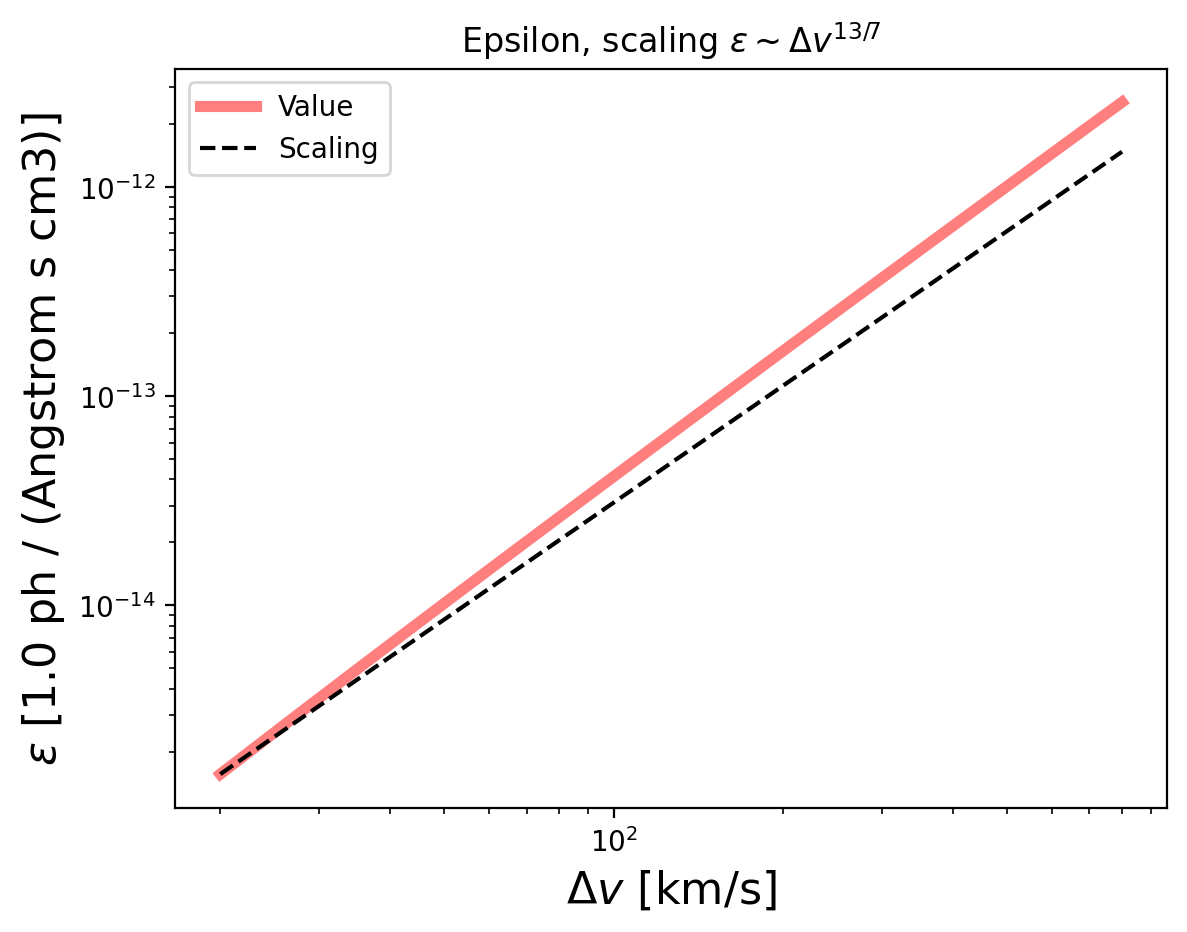
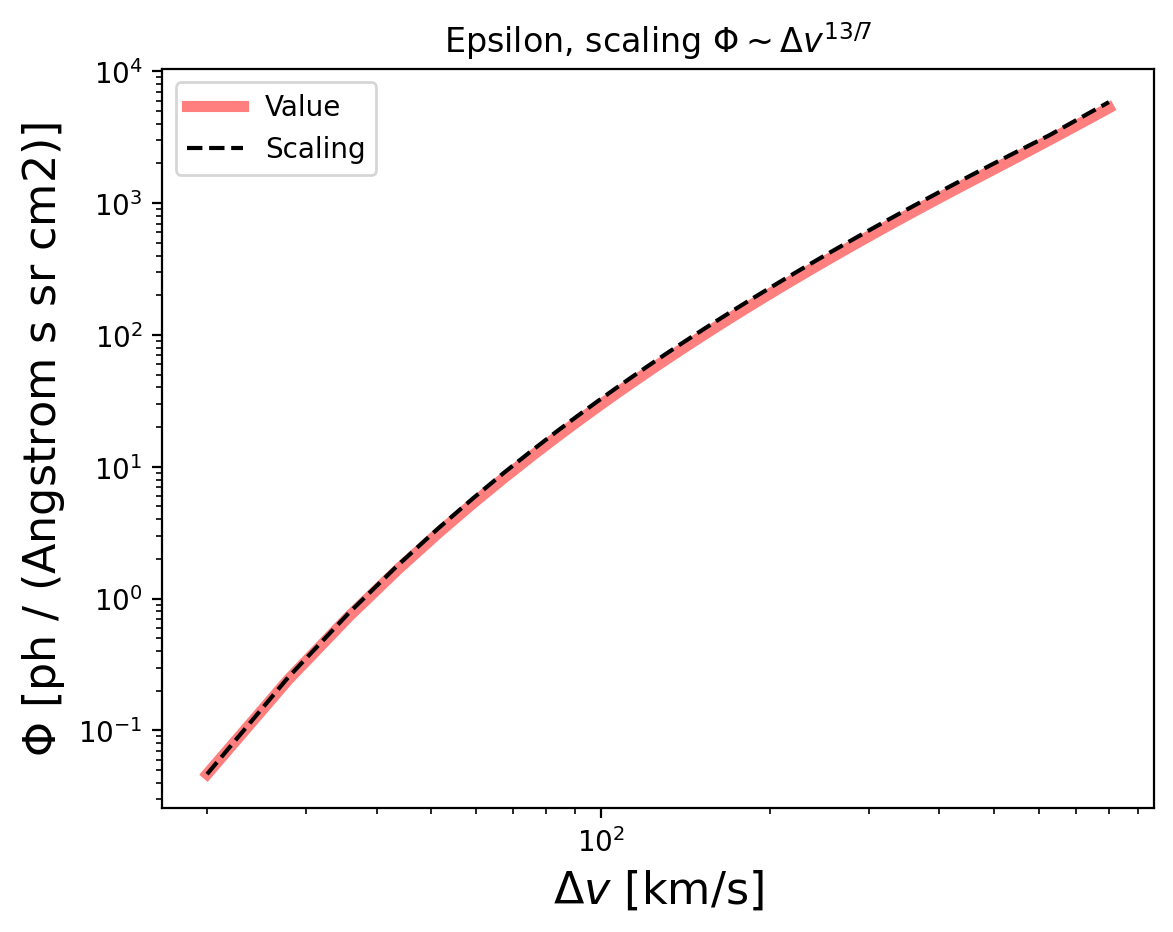
added proper emissivity relationship testing

diff --git a/processing/notebook_functions.py b/processing/notebook_functions.py
@@ -519,20 +519,31 @@ def epsilon_parameter_relations_study(quant_original, m_aqn_kg, frequency_band):
     quant = quant_original.copy()
 
     velocity_array = np.linspace(20, 800, 100) * u.km/u.s
-    epsilon_array = parameter_variation(quant, m_aqn_kg, frequency_band, "dv_ioni", velocity_array)
-    fig, ax = plot_parameter_variation(r"$\Delta v$ [km/s]", r"$\epsilon$ "+"["+str(epsilon_units)+"]", velocity_array, epsilon_array)
+    # epsilon_array = parameter_variation(quant, m_aqn_kg, frequency_band, "dv_ioni", velocity_array)
 
-    v = velocity_array / cst.c.to(u.km/u.s)
-    m_p_eV = cst.m_p * kg_to_eV
-    v0 = (v[0] * \
-        (1/((quant["temp_ion"] + 1/2 * m_p_eV * (v[0])**2)/K_to_eV)**2))**(13/7)
-    scaling_relation = epsilon_array[0] * (v * \
-        (1/((quant["temp_ion"]+1/2 * cst.m_p * kg_to_eV * (v)**2)/K_to_eV)**2))**(13/7) / v0
+    parameter_array_length = len(velocity_array)
+    epsilon_array = np.zeros(parameter_array_length) * epsilon_units
+    t_aqn_i_array = np.zeros(parameter_array_length) * u.eV
 
-    scaling_relation = epsilon_array[0] * (velocity_array/velocity_array[0])**(13/7)
+    for i, parameter in enumerate(velocity_array):
+        quant["dv_ioni"] = parameter
+        enforce_units(quant)
+        res = compute_epsilon_ionized(quant, m_aqn_kg, frequency_band)
+        epsilon_array[i] = res["aqn_emit"]
+        t_aqn_i_array[i] = res["t_aqn_i"]
 
-    plt.plot(velocity_array, scaling_relation, "--", color="black", label="Scaling")
-    plt.title(r"Epsilon, scaling $\epsilon\sim \Delta v^{13/7}$")
+    fig, ax = plot_parameter_variation(r"$\Delta v$ [km/s]", r"$\Phi$ "+"["+str(photon_units.unit)+"]", velocity_array, epsilon_array*epsilon_to_photon)
+
+    T = t_aqn_i_array * eV_to_erg
+    w = 2 * np.pi * np.mean(frequency_band) * Hz_to_erg
+    x = w/T
+
+    v = velocity_array
+
+    scaling_relation = epsilon_array[0] * (v/(v[0]))**(13/7) * H(x) / H(x[0])
+
+    plt.plot(velocity_array, scaling_relation*epsilon_to_photon, "--", color="black", label="Scaling")
+    plt.title(r"Epsilon, scaling $\Phi\sim \Delta v^{13/7}$")
     ax.set_xscale("log")
     ax.set_yscale("log")
     plt.legend()
@@ -541,16 +552,20 @@ def epsilon_parameter_relations_study(quant_original, m_aqn_kg, frequency_band):
 
     quant = quant_original.copy()
 
-    ioni_gas_array = np.linspace(1e-4, 1e-1, 10) * 1/u.cm**3
-    epsilon_array = parameter_variation(quant, m_aqn_kg, frequency_band, "ioni_gas", ioni_gas_array)
+    ioni_gas_array = np.logspace(-4, -1, 100) * 1/u.cm**3
+    epsilon_array, t_aqn_i_array = parameter_variation(quant, m_aqn_kg, frequency_band, "ioni_gas", ioni_gas_array)
 
-    scaling_relation = epsilon_array[0] * (ioni_gas_array/ioni_gas_array[0])**(13/7)
+    T = t_aqn_i_array * eV_to_erg
+    w = 2 * np.pi * np.mean(frequency_band) * Hz_to_erg
+    x = w/T
 
-    fig, ax = plot_parameter_variation(r"$n_{ion}$ [1/cm$^3$]", r"$\epsilon$ "+"["+str(epsilon_units)+"]", ioni_gas_array, epsilon_array)
+    scaling_relation = epsilon_array[0] * (ioni_gas_array/ioni_gas_array[0])**(13/7) * H(x) / H(x[0])
+
+    fig, ax = plot_parameter_variation(r"$n_{ion}$ [1/cm$^3$]", r"$\Phi$ "+"["+str(photon_units.unit)+"]", ioni_gas_array, epsilon_array*epsilon_to_photon)
     # plot_scaling_relation(ax, ioni_gas_array, 4/7, np.min(T_AQN_array))
-    plt.plot(ioni_gas_array, scaling_relation, "--", color="black", label="Scaling")
+    plt.plot(ioni_gas_array, scaling_relation*epsilon_to_photon, "--", color="black", label="Scaling")
 
-    plt.title(r"Epsilon vs n_ion, scaling $\epsilon\sim n_{ion}^{(13/7)}$")
+    plt.title(r"Epsilon vs n_ion, scaling $\Phi\sim n_{ion}^{(13/7)}$")
     ax.set_xscale("log")
     ax.set_yscale("log")
     plt.legend()
@@ -559,15 +574,19 @@ def epsilon_parameter_relations_study(quant_original, m_aqn_kg, frequency_band):
 
     quant = quant_original.copy()
 
-    m_aqn_kg_array = np.linspace(1e-4, 1e-1, 10) * u.kg
-    epsilon_array = parameter_variation(quant, m_aqn_kg, frequency_band, "aqn_mass", m_aqn_kg_array, True)
+    m_aqn_kg_array = np.logspace(-4, -1, 100) * u.kg
+    epsilon_array, t_aqn_i_array = parameter_variation(quant, m_aqn_kg, frequency_band, "aqn_mass", m_aqn_kg_array, True)
 
-    scaling_relation = epsilon_array[0] * (m_aqn_kg_array/m_aqn_kg_array[0])**(19/21)
+    T = t_aqn_i_array * eV_to_erg
+    w = 2 * np.pi * np.mean(frequency_band) * Hz_to_erg
+    x = w/T
 
-    fig, ax = plot_parameter_variation(r"$m_{aqn}$ [kg]", r"$\epsilon$ "+"["+str(epsilon_units)+"]", m_aqn_kg_array, epsilon_array)
-    plt.plot(m_aqn_kg_array, scaling_relation, "--", color="black", label="Scaling")
+    scaling_relation = epsilon_array[0] * (m_aqn_kg_array/m_aqn_kg_array[0])**(19/21) * H(x) / H(x[0])
 
-    plt.title(r"Epsilon vs m_AQN, scaling $\epsilon\sim m_{AQN}^{(19/21)}$")
+    fig, ax = plot_parameter_variation(r"$m_{aqn}$ [kg]", r"$\Phi$ "+"["+str(photon_units.unit)+"]", m_aqn_kg_array, epsilon_array*epsilon_to_photon)
+    plt.plot(m_aqn_kg_array, scaling_relation*epsilon_to_photon, "--", color="black", label="Scaling")
+
+    plt.title(r"Epsilon vs m_AQN, scaling $\Phi\sim m_{AQN}^{(19/21)}$")
     ax.set_xscale("log")
     ax.set_yscale("log")
     plt.legend()
@@ -576,24 +595,25 @@ def epsilon_parameter_relations_study(quant_original, m_aqn_kg, frequency_band):
 
     quant = quant_original.copy()
 
-    T_gas_array = np.linspace(1e2, 1e6, 100) * u.K
+    T_gas_array = np.logspace(2, 6, 100) * u.K
     T_gas_eff_array = np.zeros(len(T_gas_array)) * u.K
     epsilon_array = np.zeros(len(T_gas_array)) * epsilon_units
+    t_aqn_i_array = np.zeros(parameter_array_length) * u.eV
     for i, T_gas in enumerate(T_gas_array):
         quant["temp_ion"] = T_gas
         enforce_units(quant)
         res = compute_epsilon_ionized(quant, m_aqn_kg, frequency_band)
         epsilon_array[i] = res["aqn_emit"]
         T_gas_eff_array[i] = res["temp_ion_eff"] / K_to_eV
-
+        t_aqn_i_array[i] = res["t_aqn_i"]
 
     scaling_relation = epsilon_array[0] * (T_gas_eff_array/T_gas_eff_array[0])**(-26/7)
 
 
-    fig, ax = plot_parameter_variation(r"$T_{gas eff}$ [K]", r"$\epsilon$ "+"["+str(epsilon_units)+"]", T_gas_eff_array, epsilon_array)
-    plt.plot(T_gas_eff_array, scaling_relation, "--", color="black", label="Scaling")
+    fig, ax = plot_parameter_variation(r"$T_{gas eff}$ [K]", r"$\Phi$ "+"["+str(photon_units.unit)+"]", T_gas_eff_array, epsilon_array*epsilon_to_photon)
+    plt.plot(T_gas_eff_array, scaling_relation*epsilon_to_photon, "--", color="black", label="Scaling")
     # plot_scaling_relation(ax, T_gas_eff_array, -8/7, np.min(t_aqn_i_array))
-    plt.title(r"T_AQN vs T_gas_eff, scaling $\epsilon\sim T_{g,eff}^{(-26/7)}$")
+    plt.title(r"T_AQN vs T_gas_eff, scaling $\Phi\sim T_{g,eff}^{(-26/7)}$")
     ax.set_xscale("log")
     ax.set_yscale("log")
     plt.legend()
@@ -601,9 +621,15 @@ def epsilon_parameter_relations_study(quant_original, m_aqn_kg, frequency_band):
     plt.show()
 
 
+    # m_p_eV = cst.m_p * kg_to_eV
+
     # T_gas_0 = (1/2*m_p_eV*quant["dv_ioni"]**2 + (T_gas_array[0]*K_to_eV))**(-8/7)
     # scaling_relation = t_aqn_i_array[0] * (1/2*m_p_eV*quant["dv_ioni"]**2 + (T_gas_array*K_to_eV))**(-8/7) / T_gas_0
 
+
+    # print(T_gas_array)
+    # print("----")
+    # print(t_aqn_i_array)
 
     # fig, ax = plot_parameter_variation(r"$T_{gas}$ [K]", r"$T_{aqn}$ [eV]", T_gas_array, t_aqn_i_array)
     # plt.plot(T_gas_array, scaling_relation, "--", color="black", label="Scaling")
@@ -758,17 +784,21 @@ def parameter_variation(quant, m_aqn_kg, frequency_band, parameter_name, paramet
     parameter_array_length = len(parameter_array)
 
     epsilon_array = np.zeros(parameter_array_length) * epsilon_units
-
+    t_aqn_i_array = np.zeros(parameter_array_length) * u.eV
     if not mass_variation:
         for i, parameter in enumerate(parameter_array):
             quant[parameter_name] = parameter
             enforce_units(quant)
-            epsilon_array[i] = compute_epsilon_ionized(quant, m_aqn_kg, frequency_band)["aqn_emit"]
+            res = compute_epsilon_ionized(quant, m_aqn_kg, frequency_band)
+            epsilon_array[i] = res["aqn_emit"]
+            t_aqn_i_array[i] = res["t_aqn_i" ]
     else:
         for i, parameter in enumerate(parameter_array):
-            epsilon_array[i] = compute_epsilon_ionized(quant, parameter, frequency_band)["aqn_emit"]
+            res = compute_epsilon_ionized(quant, parameter, frequency_band)
+            epsilon_array[i] = res["aqn_emit"]
+            t_aqn_i_array[i] = res["t_aqn_i" ]
 
-    return epsilon_array
+    return epsilon_array, t_aqn_i_array
 
 def parameter_variation_t_aqn(quant, m_aqn_kg, frequency_band, parameter_name, parameter_array, mass_variation = False):
     parameter_array_length = len(parameter_array)

diff --git a/processing/constants.py b/processing/constants.py
@@ -54,6 +54,7 @@ def calc_R_AQN(m):
 photon_units =  1*u.photon / u.cm**2 / u.s / u.Angstrom / u.sr
 erg_hz_cm2   = 1*u.erg/u.s/u.Hz/u.cm**2
 epsilon_units = 1*u.photon / u.cm**3 / u.s / u.Angstrom
+epsilon_to_photon = (0.6*u.kpc).to(u.cm)/(4*np.pi)
 
 m_e_eV  = (cst.m_e.cgs*cst.c.cgs**2).value * u.erg * erg_to_eV  # mass of electron    in eV
 m_e_erg = (cst.m_e.cgs*cst.c.cgs**2).value * u.erg              # mass of electron    in erg

diff --git a/processing/testing-velocity-distribution.py b/processing/testing-velocity-distribution.py
@@ -107,7 +107,8 @@ print(f"m_p={m_p_erg}")
 # Investigation of T_AQN VS dv, ioni_gas, m_aqn and T_gas_eff
 # t_aqn_parameter_relations_study(quant.copy(), m_aqn_kg, frequency_band)
 
-# epsilon_parameter_relations_study(quant.copy(), m_aqn_kg, frequency_band)
+# Investigation of epsilon VS dv, ioni_gas, m_aqn and T_gas_eff
+epsilon_parameter_relations_study(quant.copy(), m_aqn_kg, frequency_band)
 
 
 

diff --git a/processing/aqn.py b/processing/aqn.py
@@ -129,6 +129,9 @@ def h(x):
                 return (17 + 12*np.log(2))        
     return return_array
 
+def H(x):
+    return (1+x)*np.exp(-x)*h(x)
+
 
 # def h(x):
 #     return x.copy()
